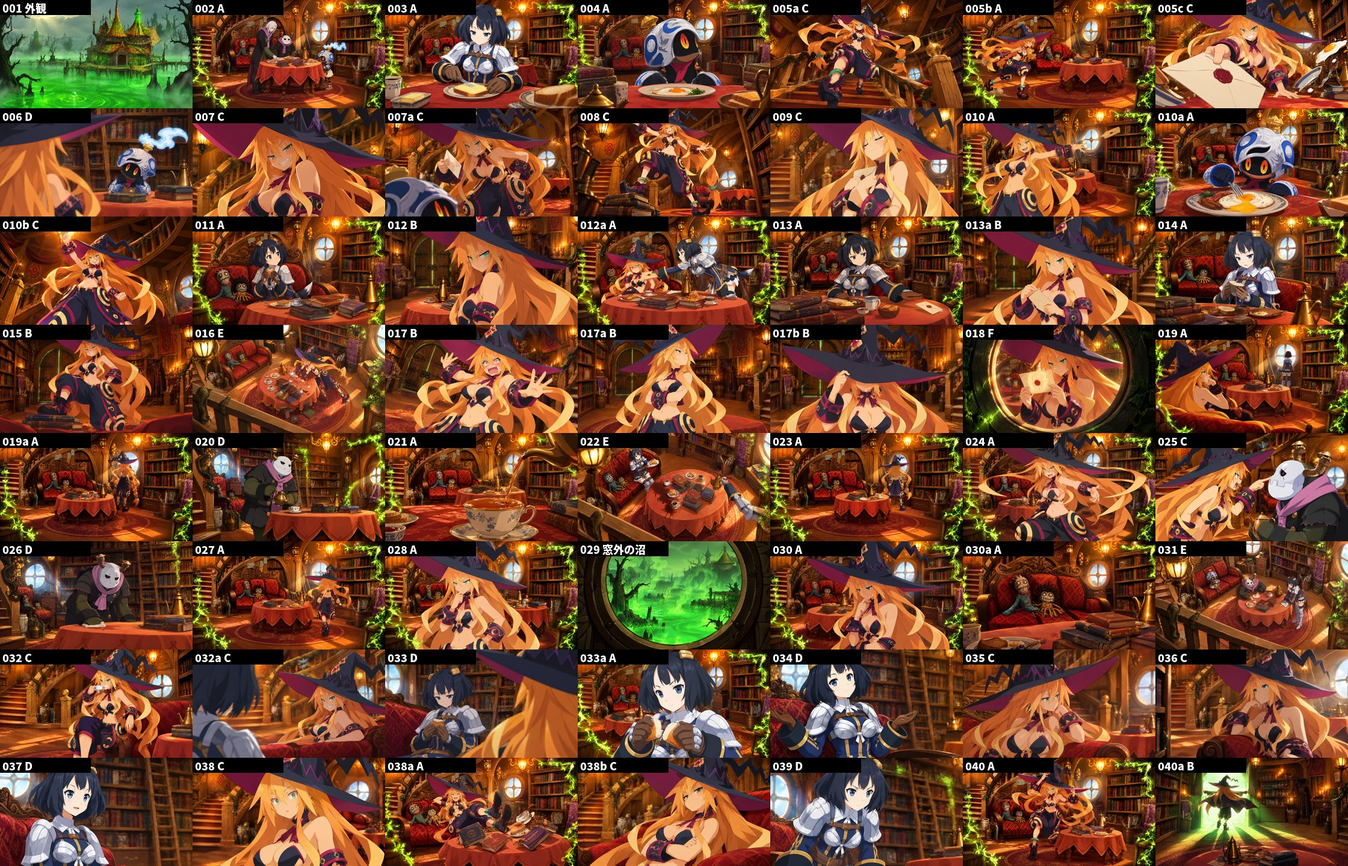
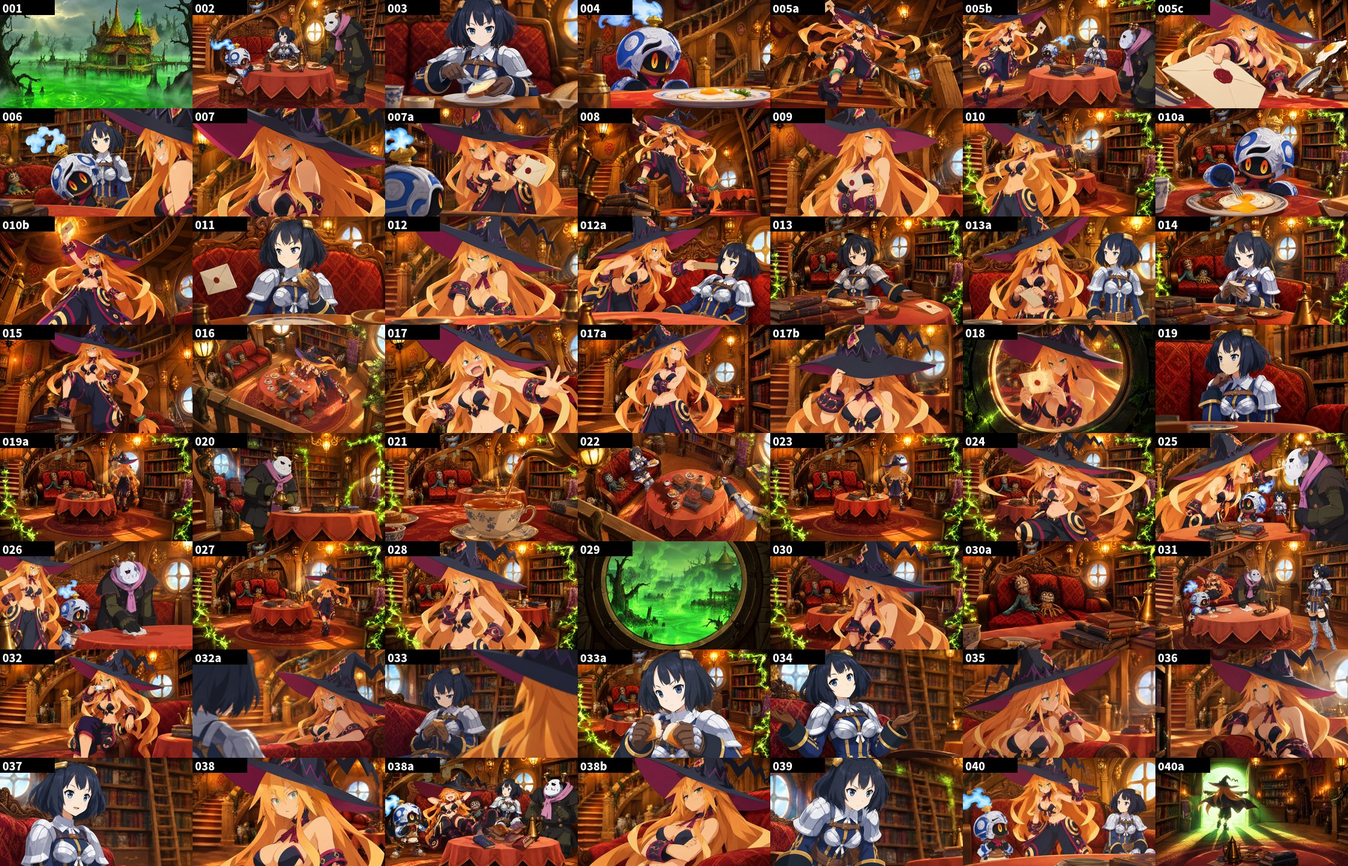
A01 の23カットを立ち位置とカメラ割り（P-04）に合わせて作り直し、Animatic v05
- 23カットを生成（23クレジット）。生成と一次QCを記録。hold 6（006・010・010a・011・013a・031）
- ショットファイルの image とカメラ位置を更新

Claude-Session: https://claude.ai/code/session_01KxKBHosT2TwMX2CJYbxap9

diff --git a/docs/log.md b/docs/log.md
@@ -20,7 +20,9 @@
 
 ## ログ
 
-- 2026-09-27: ユーザーの指摘（002 知らない人物、003・004 背景とカメラ、005b テーブルの人物がいない、006・007a 百騎兵、009・010a 背景、011 ビスコの向き）と「同じ場所の会話は先にカメラワークを決め、人物の位置を常に考える」から、演出ノートに P-04 を追加。居間の間取り（world/living-room-layout.yaml）、A01 の立ち位置とカメラ割り（episodes/A/scenes/A01/blocking.yaml）、計算と図の tools/blocking.py を作成。v04 の区間③のメタリカ（B 玄関の背景）は会話の軸をまたいでいたので、階段側に直す。作り直し23カットの計画は gen/regen_p04.yaml（承認待ち）。Living Spec に「A01 立ち位置とカメラ割り」タブを追加。
+- 2026-09-27: 立ち位置とカメラ割り（P-04）に合わせて23カットを生成（23クレジット、残り111.88）。一次QC: 17カットは計画どおり（002 は3人だけ、005b はテーブルの3人も映り、012a は役が正しくなった）。hold 6: 006（ビスコが百騎兵のすぐ後ろに立つ）、010（招待状の代わりに百騎兵の剣を持つ）、010a（アルレッキーノが白髪の男、参照画像の添付漏れ）、011（招待状が宙に浮く）、013a（ビスコが立っている）、031（3回目も配置違い）。010・010a は Animatic で前の画を使う。
+
+- 2026-09-27: ユーザーの指摘（002 知らない人物、003・004 背景とカメラ、005b テーブルの人物がいない、006・007a 百騎兵、009・010a 背景、011 ビスコの向き）と「同じ場所の会話は先にカメラワークを決め、人物の位置を常に考える」から、演出ノートに P-04 を追加。居間の間取り（world/living-room-layout.yaml）、A01 の立ち位置とカメラ割り（episodes/A/scenes/A01/blocking.yaml）、計算と図の tools/blocking.py を作成。v04 の区間③のメタリカ（B 玄関の背景）は会話の軸をまたいでいたので、階段側に直す。作り直し23カットの計画は gen/regen_p04.yaml（ユーザー承認済み。百騎兵の大きさはメタリカの腰くらいで確定）。Living Spec に「A01 立ち位置とカメラ割り」タブを追加。
 
 - 2026-09-27: カメラ位置の計画どおり、背景の基準4枚（B 玄関・C 階段・D 本棚・E 俯瞰、world/living-room-plate-*）と33カットを GPT Image 2.5 で生成（37クレジット、残り134.88）。一次QC: 31カットは位置・画角どおり。A01-012a（役が入れ替わった）と A01-031（人物の配置が違う、2回目）は hold。012a は Animatic で前の画を使う。D・E の背景には丸窓が2つ見える。A01_v04_camera.mp4 を書き出し（全カットにカメラの動き）。
 
